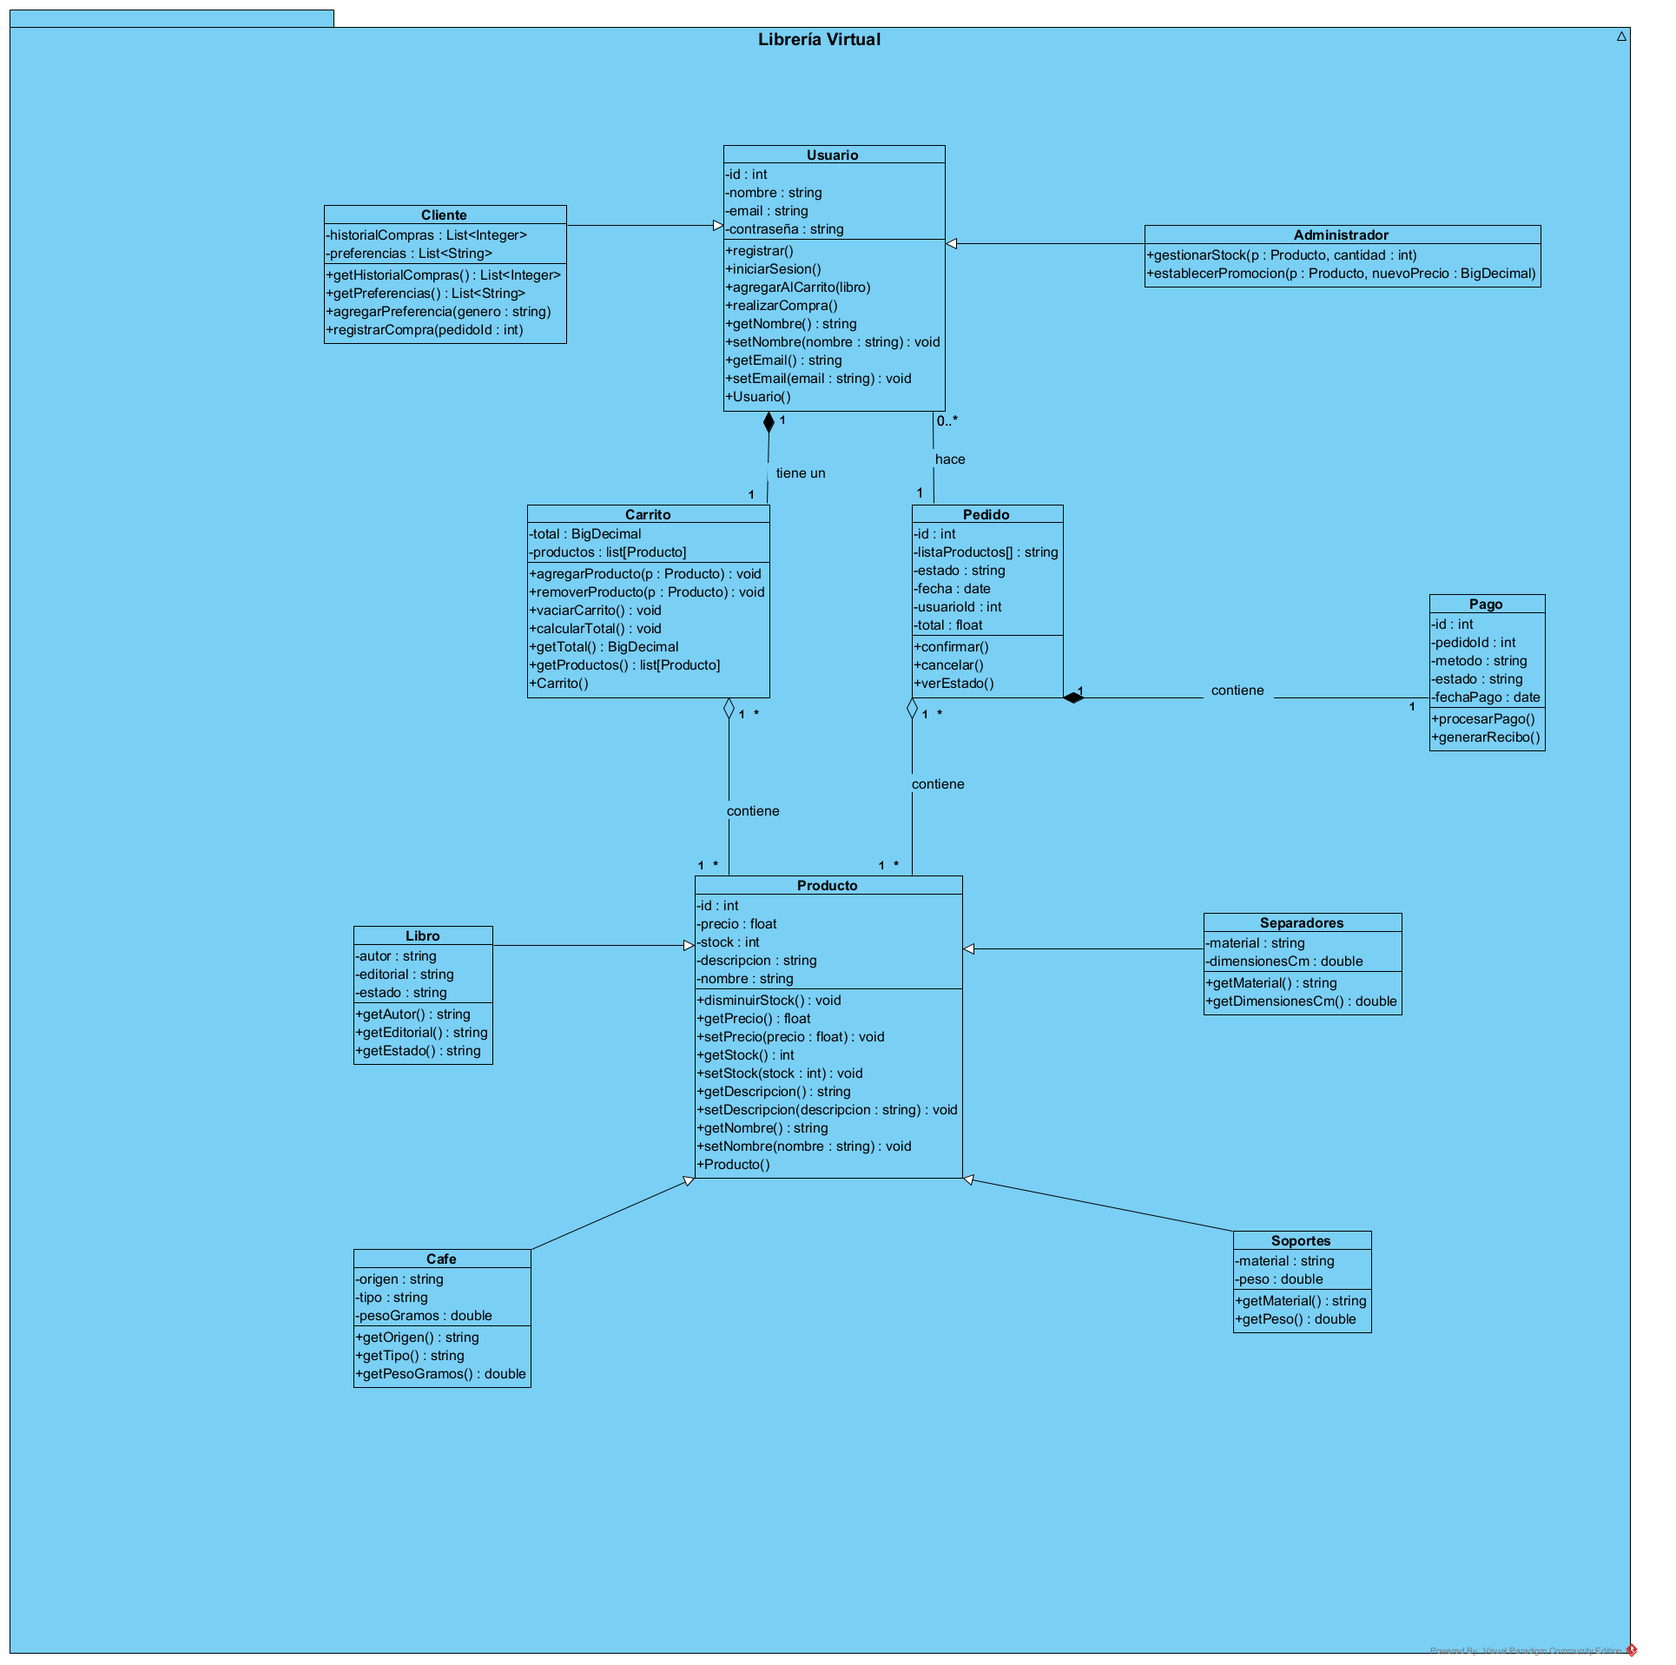
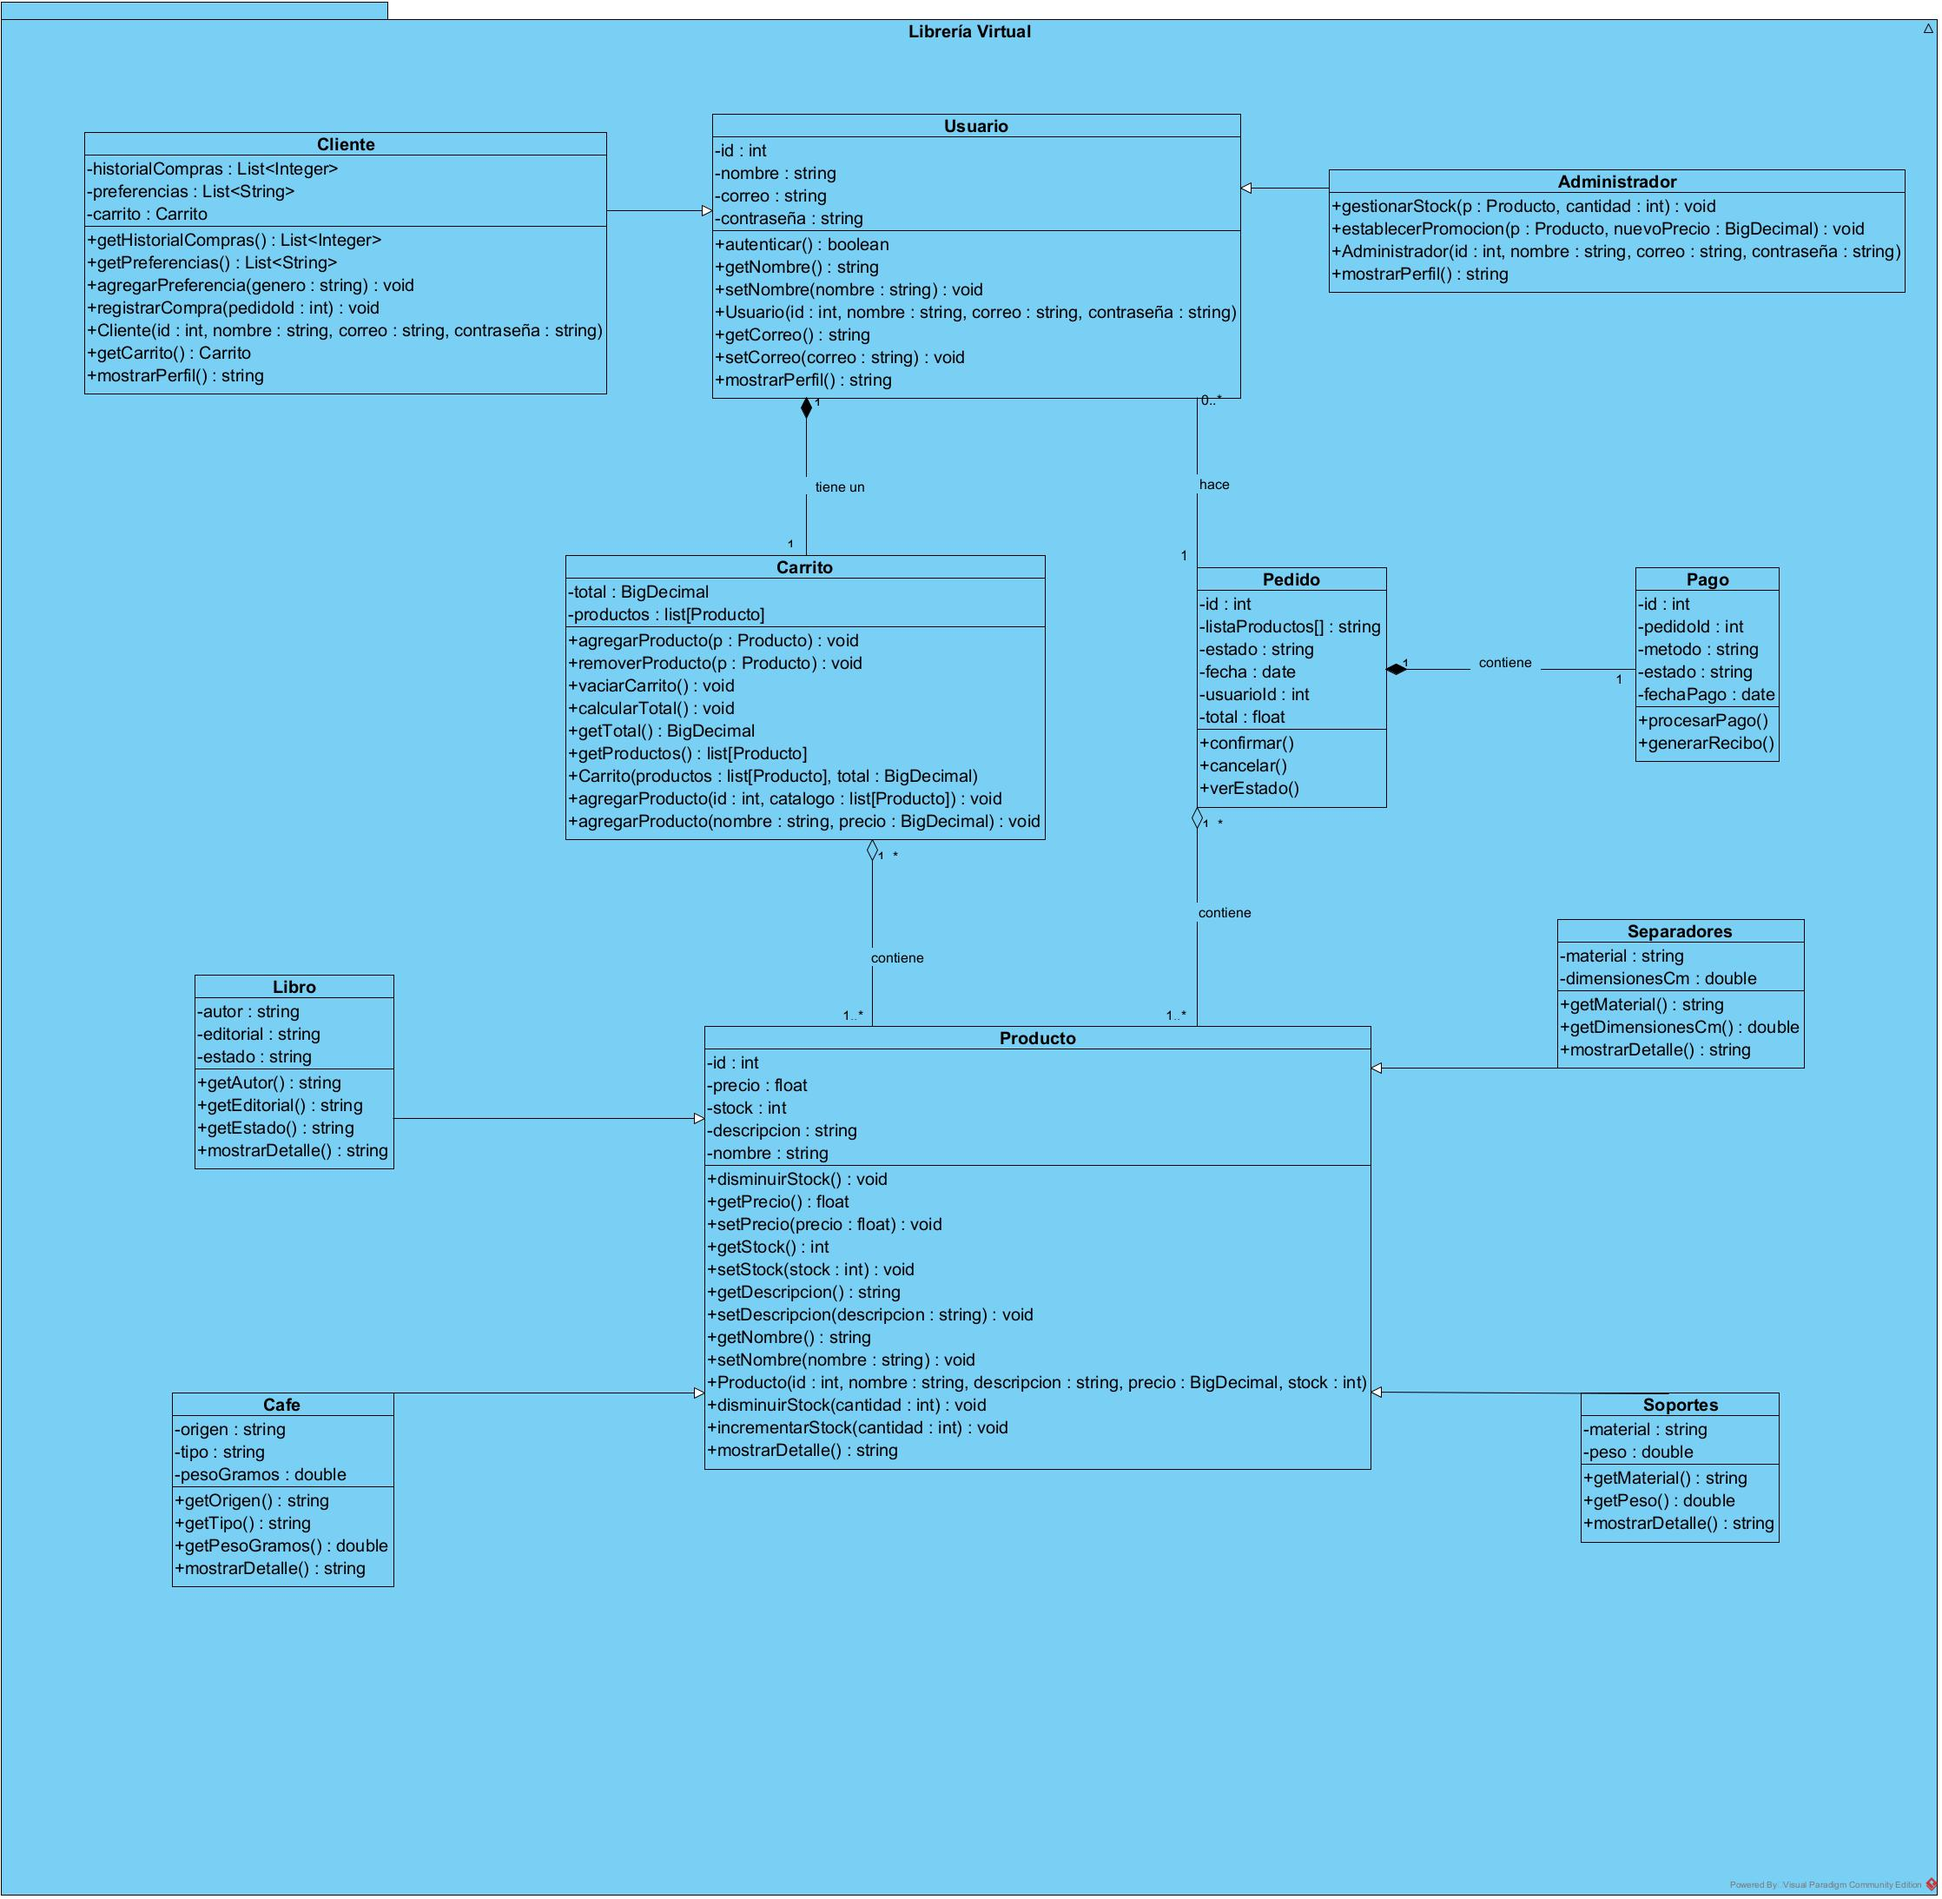
Entrega 2: actualización de clases con mejoras en UML

diff --git a/src/main/java/com/emprendimiento/saintpatrick/usuario/Cliente.java b/src/main/java/com/emprendimiento/saintpatrick/usuario/Cliente.java
@@ -1,14 +1,17 @@
 package com.emprendimiento.saintpatrick.usuario;
 
+import com.emprendimiento.saintpatrick.carrito.Carrito;
 import java.util.ArrayList;
 import java.util.List;
 
 public class Cliente extends Usuario {
     private List<Integer> historialCompras;   // IDs de pedidos
     private List<String> preferencias;        // Ej: géneros literarios
+    private Carrito carrito;
 
     public Cliente(int id, String nombre, String correo, String contraseña) {
         super(id, nombre, correo, contraseña);
+        this.carrito = new Carrito();
         this.historialCompras = new ArrayList<>();
         this.preferencias = new ArrayList<>();
     }
@@ -21,6 +24,10 @@ public class Cliente extends Usuario {
         return preferencias;
     }
 
+    public Carrito getCarrito() {
+        return carrito;
+    }
+
     public void agregarPreferencia(String genero) {
         preferencias.add(genero);
     }
@@ -30,12 +37,13 @@ public class Cliente extends Usuario {
     }
 
     @Override
-    public String toString() {
+    public String mostrarPerfil() {
         return String.format(
-                "%s\nCompras realizadas: %d\nPreferencias: %s",
-                super.toString(),
+                "Cliente: %s [%d]\nCorreo: %s\nPedidos realizados: %d\nProductos en carrito: %d",
+                getNombre(), getId(), getCorreo(),
                 historialCompras.size(),
-                preferencias.isEmpty() ? "Ninguna" : String.join(", ", preferencias)
+                carrito.getProductos().size()
         );
     }
+
 }

diff --git a/src/main/java/com/emprendimiento/saintpatrick/app/LibreriaApp.java b/src/main/java/com/emprendimiento/saintpatrick/app/LibreriaApp.java
@@ -1,16 +1,27 @@
 package com.emprendimiento.saintpatrick.app;
 
 import com.emprendimiento.saintpatrick.modelo.Libro;
+import com.emprendimiento.saintpatrick.modelo.Producto;
 import com.emprendimiento.saintpatrick.usuario.Cliente;
-
 import java.math.BigDecimal;
 
 public class LibreriaApp {
+
     public static void main(String[] args) {
-        Libro libro = new Libro(1, "El Principito", "Clásico",  new BigDecimal("12.99"), 10, "Saint-Exupéry", "Porrua", "nuevo");
-        Cliente c = new Cliente(1, "Pato", "pato@mail.com", "1234");
-        c.registrarCompra(1001);
-        System.out.println(libro);
-        System.out.println(c);
+        // Crear producto
+        Producto libro = new Libro(1, "El Principito", "Clásico", new BigDecimal("12.99"), 10,
+                "Saint-Exupéry", "Porrua", "nuevo");
+
+        // Crear cliente
+        Cliente cliente = new Cliente(101, "Patricio", "pato@mail.com", "1234");
+
+        // Agregar producto al carrito
+        cliente.getCarrito().agregarProducto(libro);
+
+        // Registrar una compra simulada
+        cliente.registrarCompra(1001); // ID ficticio de pedido
+
+        // Mostrar perfil del cliente
+        System.out.println(cliente.mostrarPerfil());
     }
 }

diff --git a/src/main/java/com/emprendimiento/saintpatrick/carrito/Carrito.java b/src/main/java/com/emprendimiento/saintpatrick/carrito/Carrito.java
@@ -22,6 +22,28 @@ public class Carrito {
         calcularTotal();
     }
 
+    /** Sobrecarga: agrega por ID (busca en catálogo simulado) */
+    public void agregarProducto(int id, List<Producto> catalogo) {
+        for (Producto p : catalogo) {
+            if (p.getId() == id) {
+                agregarProducto(p);
+                return;
+            }
+        }
+        throw new IllegalArgumentException("Producto con id " + id + " no encontrado");
+    }
+
+    /** Sobrecarga: crea y agrega un producto genérico por nombre y precio */
+    public void agregarProducto(String nombre, BigDecimal precio) {
+        Producto temporal = new Producto(0, nombre, "", precio, 1) {
+            @Override
+            public String mostrarDetalle() {
+                return String.format("%s – $%.2f", nombre, precio.doubleValue());
+            }
+        };
+        agregarProducto(temporal);
+    }
+
     //Método analizador para remover artículos del carrito
     public void removerProducto(Producto p) {
         productos.remove(p);

diff --git a/src/main/java/com/emprendimiento/saintpatrick/modelo/Separadores.java b/src/main/java/com/emprendimiento/saintpatrick/modelo/Separadores.java
@@ -17,15 +17,16 @@ public class Separadores extends Producto {
         return material;
     }
 
-    public String getDimensionesCm() {
+    public double getDimensionesCm() {
         return dimensionesCm;
     }
 
     @Override
-    public String toString() {
+    public String mostrarDetalle() {
         return String.format(
-                "%s\nMaterial: %s\nDimensiones: %s",
-                super.toString(), material, dimensionesCm
+                "Separador: %s [%d]\nMaterial: %s\nDimensiones: %.1f cm\nPrecio: $%.2f\nStock: %d unidades",
+                getNombre(), getId(), material, dimensionesCm,
+                getPrecio().doubleValue(), getStock()
         );
     }
 }

diff --git a/src/main/java/com/emprendimiento/saintpatrick/modelo/Libro.java b/src/main/java/com/emprendimiento/saintpatrick/modelo/Libro.java
@@ -28,10 +28,11 @@ public class Libro extends Producto {
     }
 
     @Override
-    public String toString() {
+    public String mostrarDetalle() {
         return String.format(
-                "%s\nAutor: %s\nEditorial: %s\nEstado: %s",
-                super.toString(), autor, editorial, estado
+                "Libro: %s [%d]\nAutor: %s\nEditorial: %s\nEstado: %s\nPrecio: $%.2f\nStock: %d unidades",
+                getNombre(), getId(), autor, editorial, estado,
+                getPrecio().doubleValue(), getStock()
         );
     }
 }

diff --git a/src/main/java/com/emprendimiento/saintpatrick/modelo/Cafe.java b/src/main/java/com/emprendimiento/saintpatrick/modelo/Cafe.java
@@ -29,10 +29,11 @@ public class Cafe extends Producto {
 
 
     @Override
-    public String toString() {
+    public String mostrarDetalle() {
         return String.format(
-                "%s\nOrigen: %s\nTipo: %s\nPeso: %.1f g",
-                super.toString(), origen, tipo, pesoGramos
+                "Café: %s [%d]\nOrigen: %s\nTipo: %s\nPeso: %.1f g\nPrecio: $%.2f\nStock: %d unidades",
+                getNombre(), getId(), origen, tipo, pesoGramos,
+                getPrecio().doubleValue(), getStock()
         );
     }
 }

diff --git a/src/main/java/com/emprendimiento/saintpatrick/modelo/Soportes.java b/src/main/java/com/emprendimiento/saintpatrick/modelo/Soportes.java
@@ -22,10 +22,11 @@ public class Soportes extends Producto {
     }
 
     @Override
-    public String toString() {
+    public String mostrarDetalle() {
         return String.format(
-                "%s\nMaterial: %s\nPeso: %.1f lbs.",
-                super.toString(), material, peso
+                "Soporte: %s [%d]\nMaterial: %s\nPeso: %.1f lbs.\nPrecio: $%.2f\nStock: %d unidades",
+                getNombre(), getId(), material, peso,
+                getPrecio().doubleValue(), getStock()
         );
     }
 }

diff --git a/src/main/java/com/emprendimiento/saintpatrick/usuario/Administrador.java b/src/main/java/com/emprendimiento/saintpatrick/usuario/Administrador.java
@@ -23,7 +23,11 @@ public class Administrador extends Usuario {
     }
 
     @Override
-    public String toString() {
-        return super.toString() + "\nRol: Administrador";
+    public String mostrarPerfil() {
+        return String.format(
+                "Administrador: %s [%d]\nCorreo: %s\nPermisos: Gestión de productos, usuarios y pedidos",
+                getNombre(), getId(), getCorreo()
+        );
     }
+
 }

diff --git a/src/main/java/com/emprendimiento/saintpatrick/modelo/Producto.java b/src/main/java/com/emprendimiento/saintpatrick/modelo/Producto.java
@@ -51,12 +51,6 @@ public abstract class Producto {
         stock += cantidad;
     }
 
-    @Override
-    public String toString() {
-        return String.format(
-                "%s [%d]\nDescripción: %s\nPrecio: $%.2f\nStock disponible: %d unidades",
-                nombre, id, descripcion, precio.doubleValue(), stock
-        );
-    }
+    public abstract String mostrarDetalle();
 }
 

diff --git a/src/main/java/com/emprendimiento/saintpatrick/usuario/Usuario.java b/src/main/java/com/emprendimiento/saintpatrick/usuario/Usuario.java
@@ -28,12 +28,8 @@ public class Usuario {
         return this.contraseña.equals(pwd);
     }
 
-    @Override
-    public String toString() {
-        return String.format(
-                "%s [%d]\nCorreo: %s",
-                nombre, id, correo
-        );
+    public String mostrarPerfil() {
+        return String.format("Usuario: %s [%d]\nCorreo: %s", nombre, id, correo);
     }
 }
 

diff --git a/README.md b/README.md
@@ -1,9 +1,9 @@
 # Librería Virtual
 
 ## Descripción del Proyecto
-Plataforma e-Commerce para la venta de libros virtuales, libros físicos, café, tazas y separadores de página.
-El lenguaje de programación usado es Java.
-El nombre del negocio es Librería Saint Patrick.
+Plataforma e-Commerce desarrollada en Java para la venta de libros físicos, café artesanal, tazas, soportes y separadores de página.
+El sistema simula el funcionamiento de una librería moderna, con gestión de usuarios, carrito de compras, inventario y lógica de negocio orientada a objetos.
+
 
 ## Tecnologías Utilizadas
 - Java 24
@@ -11,34 +11,43 @@ El nombre del negocio es Librería Saint Patrick.
 - Control de versiones: Git + GitHub
 
 ## Implementación
-1. **Paquetes**
-    - `modelo`: Este paquete representa el modelo de negocio y aquí se añade la lógica del inventario y la clase abstracta Producto.
-    - `usuario`: clases de usuario y autenticación.
-    - `carrito`: gestión del carrito de compras.
-    - `app`: Paquete que contendrá el código ejecutable del proyecto para el funcionamiento de la plataforma.
-2. **Constructor y getters/setters** en cada clase.
-3. **Analizador para agregar/remover/vaciar** artículos en carrito y para calcular total del carrito
-4. **Extensión de Funcionalidades mediante Herencia**
 
-    *Clases derivadas de Producto*
-   - Libro: autor, editorial, estado
-   - Cafe: origen, tipo, pesoGramos
-   - Separadores: material, dimensionesCm
-   - Soportes: material, peso
+1. **Paquetes:**
+- modelo: Contiene la clase abstracta Producto y sus subclases (Libro, Cafe, Separadores, Soportes). Aquí se implementa la lógica de inventario, herencia y polimorfismo.
+- usuario: Define la clase base Usuario y sus derivadas Cliente y Administrador, con métodos sobrescritos como mostrarPerfil().
+- carrito: Maneja la clase Carrito, con métodos sobrecargados para agregar productos por objeto, ID o datos sueltos.
+- app: Contiene el punto de entrada (main) y pruebas en consola para validar el comportamiento del sistema.
+2. **Constructores y getters/setters:** en todas las clases, con encapsulamiento selectivo para proteger la integridad de los objetos.
+3. **Métodos analíticos:** para agregar, remover y vaciar productos del carrito, además de calcular el total dinámico.
+4. **Herencia y especialización:**
+- Producto → Libro, Cafe, Separadores, Soportes
+- Usuario → Cliente, Administrador
 
-   *Clases derivadas de Usuario*
-   - Cliente: historialCompras, preferencias
-   - Administrador: gestión de stock, establecimiento de promociones
+5. **Polimorfismo:**
+  Se implementa el método mostrarDetalle() en Producto como abstracto, y se sobrescribe en cada subclase para mostrar información específica.
+  También se aplica en Usuario mediante mostrarPerfil(), sobrescrito en Cliente y Administrador.
+6. **Sobrecarga de métodos:**
+  En Carrito, el método agregarProducto() se sobrecarga para aceptar:
+- Un objeto Producto
+- Un id y un catálogo simulado
+- Un nombre y precio para crear un producto temporal
+7. **Sobrescritura:**
+  Métodos como mostrarDetalle() y mostrarPerfil() se sobrescriben para personalizar la salida según el tipo de objeto.
+
+
+
 
 ## Desafíos y Resoluciones
-- **Gestión de stock:** Creación de los métodos incrementarStock y disminuirStock con parámetro de cantidad en la clase Producto. De esta manera estos métodos pueden ser llamados desde la sub clase Administrador. Se creó también un método sobrecardado de disminuirStock porque el anterior solamente permitía disminuir el stock en 1.
-- **Importación de clases entre módulos:** Existían unas clases que estaban siendo importadas sin ser utilizadas y su importación fue eliminada.
-- **Prueba de salida:** Se refinó el método toString en todas clases para que el resultado fuera más legible.
+- **Gestión de stock:** Se implementaron incrementarStock(int) y disminuirStock(int) en Producto, incluyendo validaciones y excepciones. También se creó una versión sobrecargada de disminuirStock() para reducir una sola unidad.
+- **Importaciones innecesarias:** Se depuraron los paquetes eliminando clases importadas sin uso.
 - **Encapsulamiento:** Se aplica el uso de getters sin setters en las sub clases para proteger la integridad del objeto.
+- **Diseño orientado a objetos:** Se añadió el atributo carrito a la clase Cliente, permitiendo simular compras, calcular totales y mostrar productos en el perfil.
+
 
 ## Capturas de pantalla
 ![Carrito](docs/carrito.png)  
 ![Diagrama UML](docs/uml.jpg)
 ![Prueba de Visualización](docs/prueba1.png)
-
+![Atributos de Cliente Ficticio](docs/pruebaCliente.png)
+![Atributos de Productos Ficticios](docs/pruebaProductos.png)
 ---
